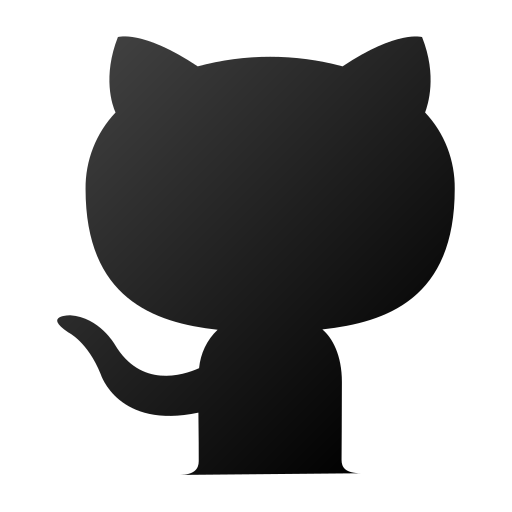
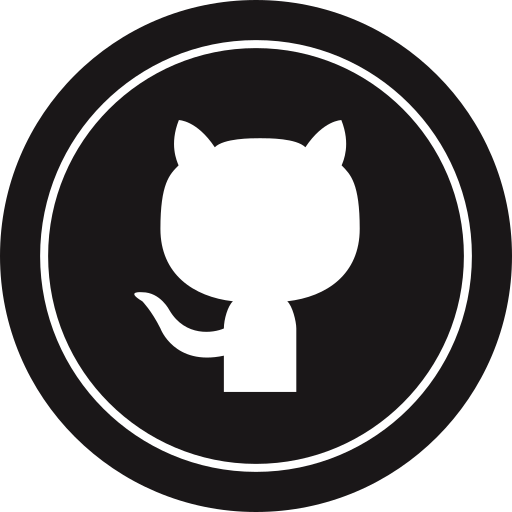
Typed.js added and code configurated <-> Typed.js adicionado e código configurado

diff --git a/HTML/home.html b/HTML/home.html
@@ -12,22 +12,23 @@
 <body>
     <header>
         <div id="linkedin">
-            <a href="https://www.linkedin.com/in/yan3" target="_blank"><img src="/Assets/linkedin.png" alt="linkedin"></a>
+            <a href="https://www.linkedin.com/in/yan3" target="_blank"><img src="/Assets/linkedin_white.png" alt="linkedin"></a>
             <a href="https://www.linkedin.com/in/yan3" target="_blank"><p>Linkedin</p></a>
         </div>
         <nav>
-            <li><a href="/HTML/home.html">Home</a></li>
-            <li><a href="/HTML/projects.html">Projects</a></li>
-            <li><a href="/HTML/about.html">About</a></li>
-            <li><a href="/HTML/skills.html">Skills</a></li>
+            <li><a class="line" href="/HTML/home.html">Home</a></li>
+            <li><a class="line" href="/HTML/projects.html">Projects</a></li>
+            <li><a class="line" href="/HTML/about.html">About</a></li>
+            <li><a class="line" href="/HTML/skills.html">Skills</a></li>
         </nav>
         <div id="github">
-            <a href="https://github.com/0Dev-Yan0" target="_blank"><img src="/Assets/github.png" alt="github"></a>
+            <a href="https://github.com/0Dev-Yan0" target="_blank"><img src="/Assets/github_white.png" alt="github"></a>
             <a href="https://github.com/0Dev-Yan0" target="_blank"><p>GitHub</p></a>
         </div>
     </header>
     <main>
-
+        <h2 id="titulo" class="typado"></h2>
+        <h3 id="teste" class="typado"></h3>
     </main>
     <footer>
             <div id="translate">
@@ -47,14 +48,15 @@
                     <p>lorem ipsum</p>
                 </div>
             </section>
-            <div id="theme">
-                <h3 id="theme_text">light mode</h3>
+            <div id="theme" class="line">
+                <h3 id="theme_text">Light mode On</h3>
                 <label class="switch">
                     <input type="checkbox" id="checkbox" checked>
                     <span class="slider round"></span>
                 </label>
             </div>
     </footer>
+    <script src="https://cdn.jsdelivr.net/npm/typed.js@2.0.12"></script>
     <script src="/main.js"></script>
 </body>
 </html>

diff --git a/main.js b/main.js
@@ -14,9 +14,34 @@ translate.addEventListener("click", (event) => {
 checkbox.addEventListener("change", (evento) => {
     if (evento.target.checked) {
         console.log("Hello World");
-        theme_text.innerText = "light mode";
+        theme_text.innerText = "Light mode On";
     } else {
         console.log("Goodbye World");
-        theme_text.innerText = "dark mode";
+        theme_text.innerText = "Light mode Off";
     }
 });
+
+//! Utilização da biblioteca typed.js aqui;
+var options = {
+    strings: ["Ae porra está funcinando yippe!", "Segunda frase escrita por que sim", "E uma terceira ainda"],
+    typeSpeed: 40, //! Velocidade de escrever;
+    backSpeed: 20, //! Velocidade de deletado;
+    loop: true, //! Loop verdadeiro ou falso;
+    showCursor: false, //! Mostrar ou não o cursor "a barra no final da frase", verdadeiro ou falo para aplicar;
+    // fadeOut: true, //! Ao invés de deletar ele apaga, verdadeiro ou falso para aplicar;
+    // fadeOutClass: 'typed-fade-out', //! Estilo de como vai ser apagado;
+    // fadeOutDelay: 500, //! Delay em milisegundo para ele começar a ser apagado;
+    // loopCount: Infinity, //! Quantidade de loops, se houver;
+    // cursorChar: '|', //! Qual vai ser o caractere do cursor;
+    // backDelay: 500, //! Delay para começar a deletar o texto após ele ser escrito;
+    // startDelay: 2000, //! Delay para começar a escrever o texto;
+};
+var options2 = {
+    strings: ["Testando novamente só para ver mesmo", "Miau vezes mil", "Seila cansei"],
+    typeSpeed: 40,
+    backSpeed: 20,
+    loop: false
+};
+  
+var typed = new Typed("#titulo", options);
+// var typed2 = new Typed("#teste", options2);

diff --git a/Styles/header.css b/Styles/header.css
@@ -1,7 +1,7 @@
 header {
     display: flex;
     flex-direction: row;
-    background-color: var(--dark-themed);
+    background-color: var(--sec-light-color);
     justify-content: space-between;
     align-items: center;
     padding: 25px 15px 20px 15px;
@@ -13,7 +13,7 @@ a {
 }
 
 a p {
-    color: var(--sec-dark-color);
+    color: var(--main-dark-color);
     font-weight: 650;
 }
 
@@ -32,7 +32,7 @@ a p {
 }
 
 #linkedin img, #github img {
-    height: 30px;
+    height: 45px;
 }
 
 nav {
@@ -42,8 +42,8 @@ nav {
     justify-content: space-around;
     padding: 15px;
     margin: 0px 10px 0px 5px;
-    border: 1px solid var(--sec-light-color);
-    box-shadow: 1px 1px 3.5px var(--main-light-color);
+    border: 1px solid var(--main-dark-color);
+    box-shadow: 1.5px 1.5px 3.5px var(--main-dark-color);
     border-radius: 30px;
     width: 500px;
     background-color: var(--main-light-color);
@@ -58,44 +58,12 @@ li a {
     color: var(--sec-light-color);
 }
 
-li::before,
-li::after {
-    content: "";
-    position: absolute;
-    height: 2px;
-    background-color: var(--blue-themed);
-    width: 0;
-    transition: width 0.3s;
-}
-
-li::before {
-    bottom: 0;
-    left: 0;
-    transform-origin: left;
-}
-
-li::after {
-    bottom: 0;
-    right: 0;
-    transform-origin: right;
-}
-
-li:hover::before,
-li:hover::after {
-    width: 100%;
-    transition: 0.5s;
-}
-
 @media (max-width: 430px) {
      header {
         width: fit-content;
     } 
     nav {
-        width: 70%;
+        width: 55%;
         gap: 15px;
-    }
-    #linkedin, #github {
-        display: flex;
-        flex-direction: column;
     }
   }

diff --git a/Styles/footer.css b/Styles/footer.css
@@ -4,7 +4,7 @@ footer {
   align-items: center;
   justify-content: space-between;
   margin-top: auto;
-  background-color: var(--main-light-color);
+  background-color: var(--sec-light-color);
   height: fit-content;
   padding: 20px 15px 15px 15px;
 }
@@ -19,25 +19,7 @@ footer {
   cursor: pointer;
   font-weight: bold;
   color: var(--main-dark-color);
-  transition: 0.7s;
-}
-
-#translate:hover {
-  border: 3px solid var(--sec-dark-color);
-}
-
-#theme {
-  display: flex;
-  flex-direction: column-reverse;
-  justify-content: center;
-  align-items: center;
-  gap: 5px;
-  color: var(--sec-dark-color);
-  transition: 0.7s;
-}
-
-#theme:hover {
-  color: var(--main-dark-color);
+  animation: blinker 2.5s infinite;
 }
 
 #content_footer {
@@ -57,6 +39,21 @@ footer {
   box-shadow: 4px 4px 6px var(--main-dark-color);
   color: var(--sec-dark-color);
   padding: 15px;
+}
+
+#theme {
+  display: flex;
+  flex-direction: column-reverse;
+  justify-content: center;
+  align-items: center;
+  padding: 2px;
+  gap: 3px;
+  transition: 0.7s;
+  position: relative;
+}
+
+#theme_text {
+  color: var(--sec-dark-color);
 }
 
 /* Começo do botão toggle */
@@ -121,9 +118,10 @@ footer {
 /* Final do botão toggle */
 
 @media (max-width: 430px) {
-  footer {
-    padding: 10px 5px 5px 5px;
-    width: 430px;
- } 
-
+ #content_footer {
+  display: flex;
+  flex-direction: column;
+  justify-content: space-between;
+  width: 250px;
+}
 }

diff --git a/Styles/main.css b/Styles/main.css
@@ -7,9 +7,9 @@
 :root {
     --main-font: 'Kanit', sans-serif;
     --main-light-color: #f0ffff;
-    --sec-light-color: #808080;
+    --sec-light-color: #696969;
     --main-dark-color: black;
-    --sec-dark-color: 	#FFFFFF;
+    --sec-dark-color: #e0e0e0;
     --orange-themed: #ff6600;
     --purple-themed: #551a8b;
     --blue-themed: #007BFF;
@@ -20,6 +20,18 @@
     --main-listyle: none;
 }
 
+@keyframes blinker {
+    0% {
+    border: 3px solid transparent;
+}
+    50% {
+    border: 3px solid var(--main-dark-color);
+}
+    100% {
+    border: 3px solid transparent;
+}
+}
+
 body {
     display: flex;
     flex-direction: column;
@@ -27,6 +39,8 @@ body {
     font-family: var(--main-font);
     font-size: var(--normal-text);
     min-height: 100vh;
+    color: var(--main-dark-color);
+    font-weight: 650;
 }
 
 h1 {
@@ -39,4 +53,34 @@ h2 {
 
 p {
     font-size: var(--normal-text);
+}
+
+.line::before,
+.line::after {
+    content: "";
+    position: absolute;
+    height: 2.5px;
+    background-color: var(--blue-themed);
+    width: 0;
+    transition: 0.5s;
+}
+
+.line::before {
+    bottom: 0;
+    left: 0;
+}
+
+.line::after {
+    bottom: 0;
+    right: 0;
+}
+
+.line:hover::before,
+.line:hover::after {
+    width: 100%;
+    transition: 0.7s;
+}
+
+.typado {
+    display: inline;
 }
